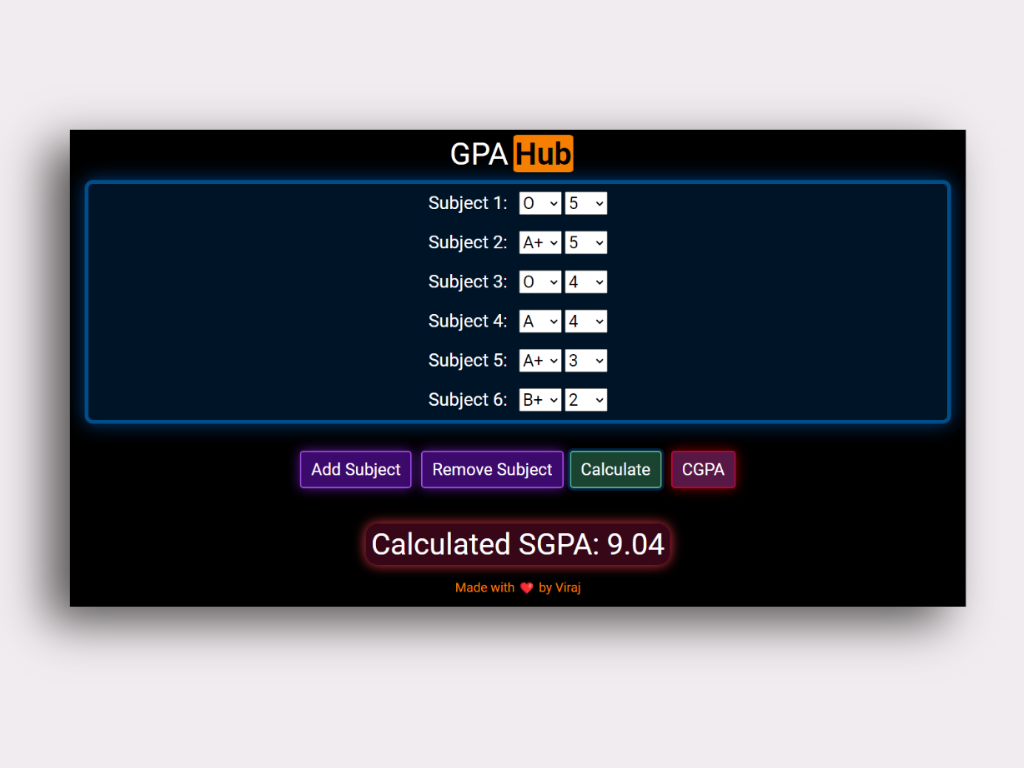
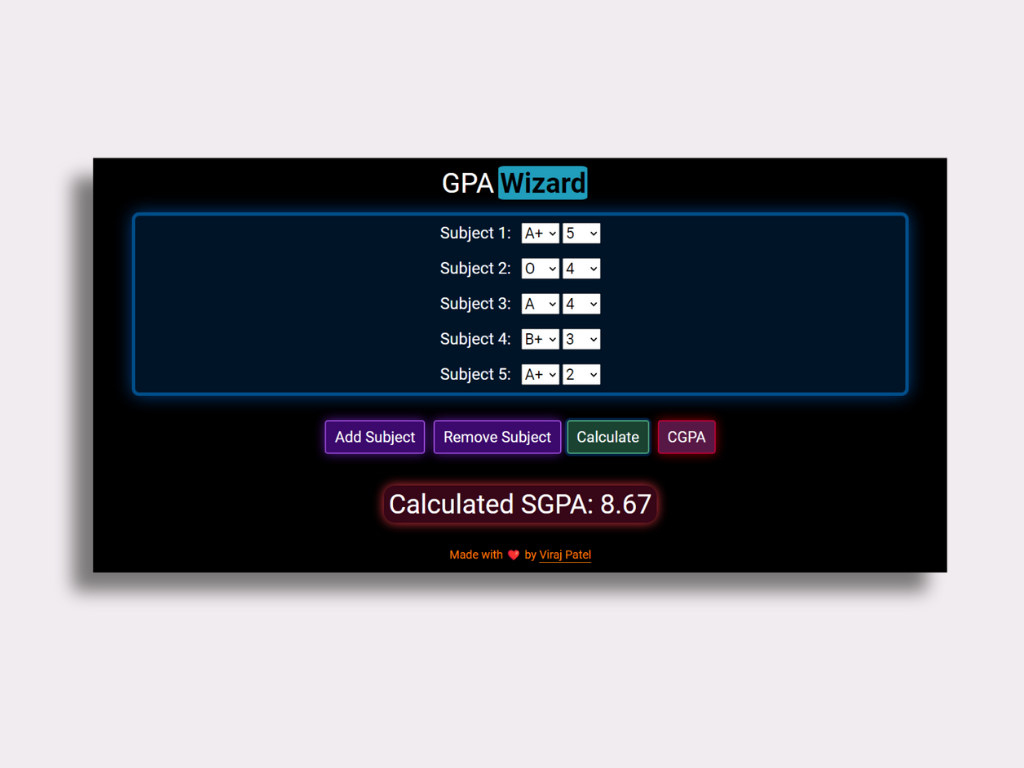
updated gpawiz project

diff --git a/projects.html b/projects.html
@@ -53,17 +53,34 @@
                     <div class="card col-md-3 col-sm-6 col-12">
                         <img src="photos/gpa.png" class="card-img-top p-3">
                         <div class="card-body">
-                            <a class="card-title" href="https://github.com/virajp4/GPA-Hub" target="_blank">GPA-Hub</a>
-                            <p class="card-text">A website that helps the students of my college to calculate their GPA and Cumulative GPA.
-                            </p>
+                            <div class="card-title webapp">
+                                <span class="webapp-title">
+                                    <a href="https://github.com/virajp4/GPA-Wiz" target="_blank" class="webapp-link">GPA-Wiz</a>
+                                </span>
+                                <span>
+                                    <a href="https://www.virajp4.me/GPA-Wiz/" target="_blank">
+                                        <i class="fa-solid fa-link fa-xs"></i>
+                                    </a>
+                                </span>
+                            </div>
+                            <p class="card-text">A website that helps the students of my college to calculate their GPA.</p>
                         </div>
                     </div><div class="card col-md-3 col-sm-6 col-12">
                         <img src="photos/quiz.png" class="card-img-top p-3">
                         <div class="card-body">
-                            <a class="card-title" href="https://github.com/virajp4/GPA-Hub" target="_blank">QuizQuarry</a>
-                            <p class="card-text">A website that enables students to practice words of different languages, by taking quizzes.
-                            </p>
+                            <div class="card-title webapp">
+                                <span class="webapp-title">
+                                    <a href="https://github.com/virajp4/QuizQuarry" target="_blank" class="webapp-link">QuizQuarry</a>
+                                </span>
+                                <span>
+                                    <a href="https://www.virajp4.me/QuizQuarry" target="_blank">
+                                        <i class="fa-solid fa-link fa-xs"></i>
+                                    </a>
+                                </span>
+                            </div>
+                            <p class="card-text">A website that enables students to practice words of different languages, by taking quizzes.</p>
                         </div>
+                        
                     </div>
                 </div>
                 <div class="card-deck row">
@@ -86,7 +103,7 @@
                     <div class="card col-md-3 col-sm-6 col-12">
                         <img src="photos/tic.png" class="card-img-top p-3">
                         <div class="card-body">
-                            <a class="card-title" href="https://github.com/virajp4/GPA-Hub" target="_blank">Tic-Tac-Toe</a>
+                            <a class="card-title" href="https://github.com/virajp4/Tic-Tac-Toe-PvP" target="_blank">Tic-Tac-Toe</a>
                             <p class="card-text">A simple Tic-Tac-Toe game with an interactive GUI.</p>
                             </p>
                         </div>

diff --git a/index.html b/index.html
@@ -77,7 +77,16 @@
                 <div class="card">
                     <img src="photos/gpa.png" class="card-img-top p-3">
                     <div class="card-body">
-                        <a class="card-title" href="https://github.com/virajp4/GPA-Hub" target="_blank">GPA-Hub</a>
+                        <div class="card-title webapp">
+                            <span class="webapp-title">
+                                <a href="https://github.com/virajp4/GPA-Hub" target="_blank" class="webapp-link">GPA-Wiz</a>
+                            </span>
+                            <span>
+                                <a href="https://www.virajp4.me/GPA-Hub/" target="_blank">
+                                    <i class="fa-solid fa-link fa-xs"></i>
+                                </a>
+                            </span>
+                        </div>
                         <p class="card-text">A website that helps the students of my college to calculate their GPA.</p>
                     </div>
                 </div>

diff --git a/projectsstyle.css b/projectsstyle.css
@@ -271,6 +271,19 @@ body {
     text-decoration: 1px underline;
 }
 
+.webapp {
+    text-decoration: none;
+}
+
+.webapp-title {
+    text-decoration: 1px underline;
+    text-underline-offset: 8px;
+}
+
+.webapp-link:hover {
+    text-decoration: none;
+}
+
 .card-text {
     margin-top: 35px;
     font-size: 1.1rem;

diff --git a/indexstyle.css b/indexstyle.css
@@ -296,6 +296,19 @@ body {
     text-underline-offset: 8px;
 }
 
+.webapp {
+    text-decoration: none;
+}
+
+.webapp-title {
+    text-decoration: 1px underline;
+    text-underline-offset: 8px;
+}
+
+.webapp-link:hover {
+    text-decoration: none;
+}
+
 .card-title:hover {
     text-decoration: 1px underline;
 }
